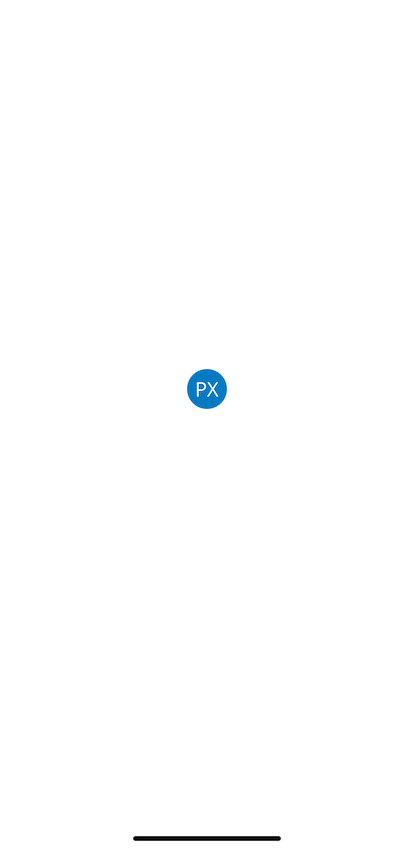
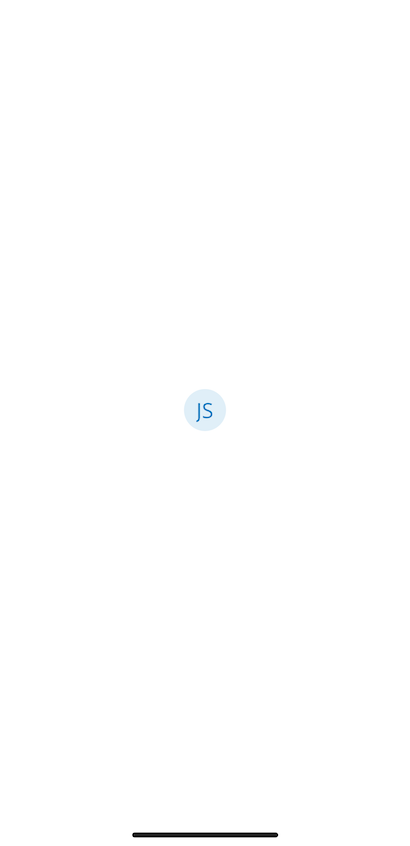
Update documentation images

Changed region(s): [[0.439, 0.4303, 0.5561, 0.5225], [0.322, 0.9835, 0.6732, 1.0]]

diff --git a/demos/storybook/storybook/stories/user-menu.tsx b/demos/storybook/storybook/stories/user-menu.tsx
@@ -25,7 +25,7 @@ storiesOf('UserMenu', module)
                 menuItems={menuItems}
                 avatar={
                     <Avatar.Text
-                        label={text('Avatar.Text label', 'PX')}
+                        label={text('Avatar.Text label', 'JS')}
                         size={40}
                         color={Colors.blue[500]}
                         style={{ backgroundColor: Colors.blue[50] }}
@@ -43,7 +43,7 @@ storiesOf('UserMenu', module)
                 iconColor={color('iconColor', Colors.white[50])}
                 avatar={
                     <Avatar.Text
-                        label={text('Avatar.Text label', 'PX')}
+                        label={text('Avatar.Text label', 'JS')}
                         size={40}
                         color={color('Avatar.Text text color', Colors.blue[500])}
                         style={{ backgroundColor: color('Avatar.Text background color', Colors.blue[50]) }}
@@ -94,7 +94,7 @@ storiesOf('UserMenu', module)
                 menuItems={menuItems}
                 avatar={
                     <Avatar.Text
-                        label={'PX'}
+                        label={'JS'}
                         size={40}
                         color={Colors.blue[500]}
                         style={{ backgroundColor: Colors.blue[50] }}
@@ -114,7 +114,7 @@ storiesOf('UserMenu', module)
                 iconColor={color('iconColor', Colors.white[50])}
                 avatar={
                     <Avatar.Text
-                        label={text('Avatar.Text label', 'PX')}
+                        label={text('Avatar.Text label', 'JS')}
                         size={40}
                         color={color('Avatar.Text text color', Colors.blue[500])}
                         style={{ backgroundColor: color('Avatar.Text background color', Colors.blue[50]) }}
@@ -136,7 +136,7 @@ storiesOf('UserMenu', module)
                                 menuItems={menuItems}
                                 avatar={
                                     <Avatar.Text
-                                        label={'PX'}
+                                        label={'JS'}
                                         size={40}
                                         color={Colors.blue[500]}
                                         style={{ backgroundColor: Colors.blue[50] }}
